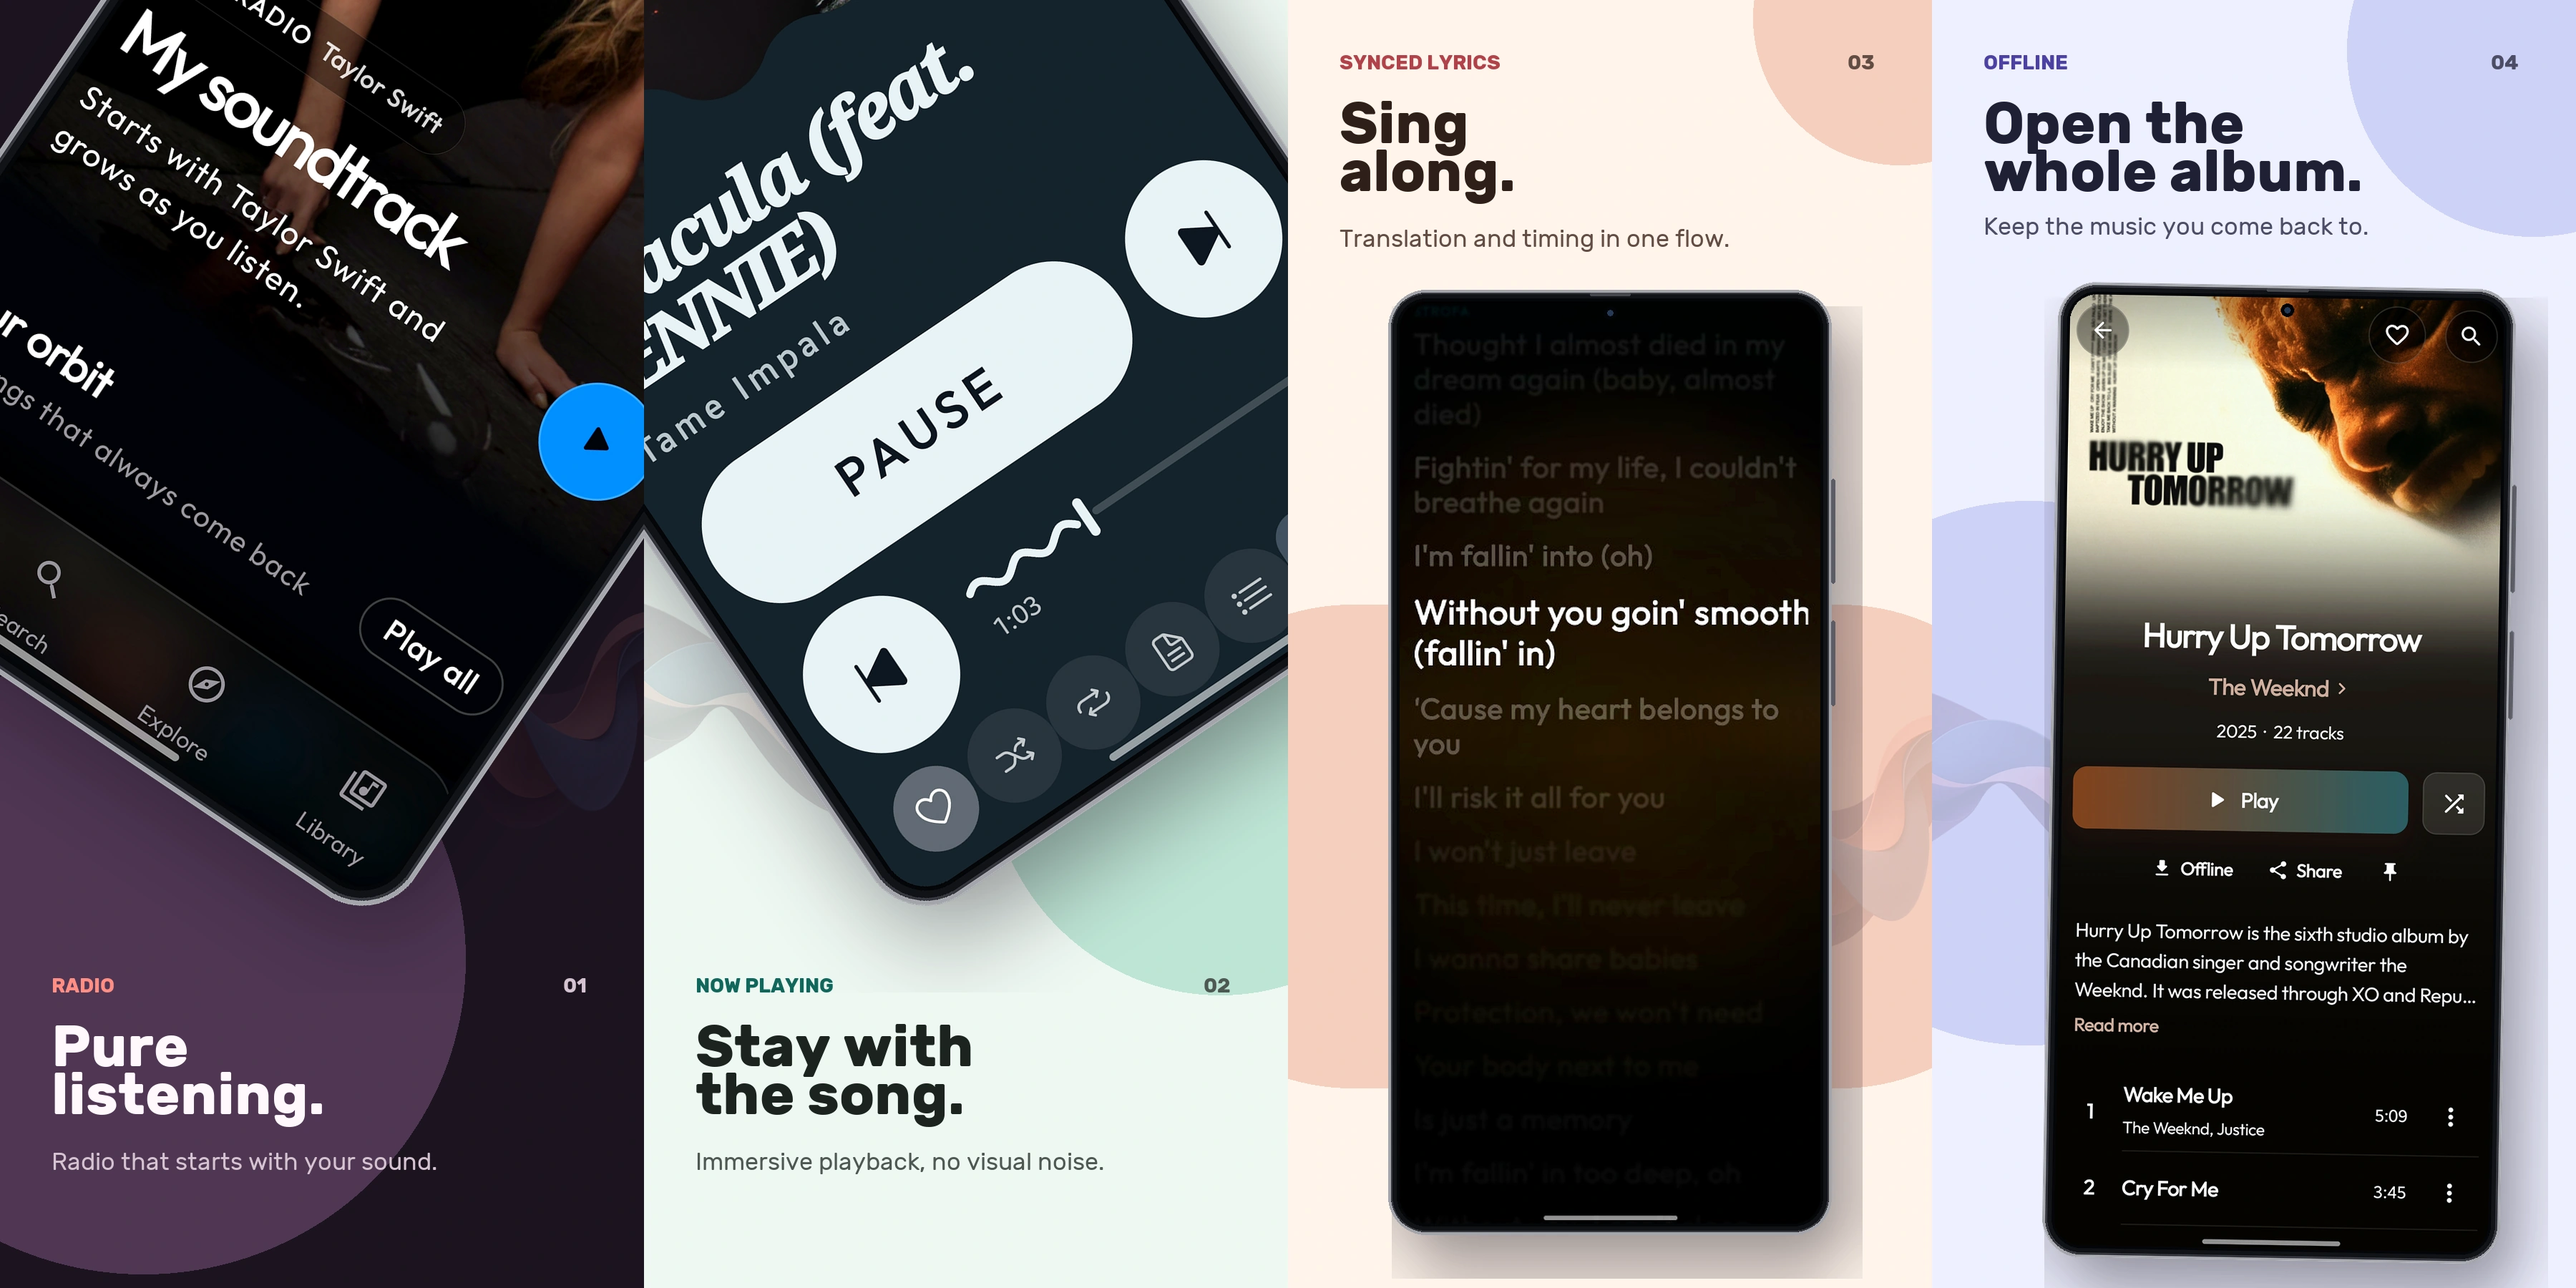
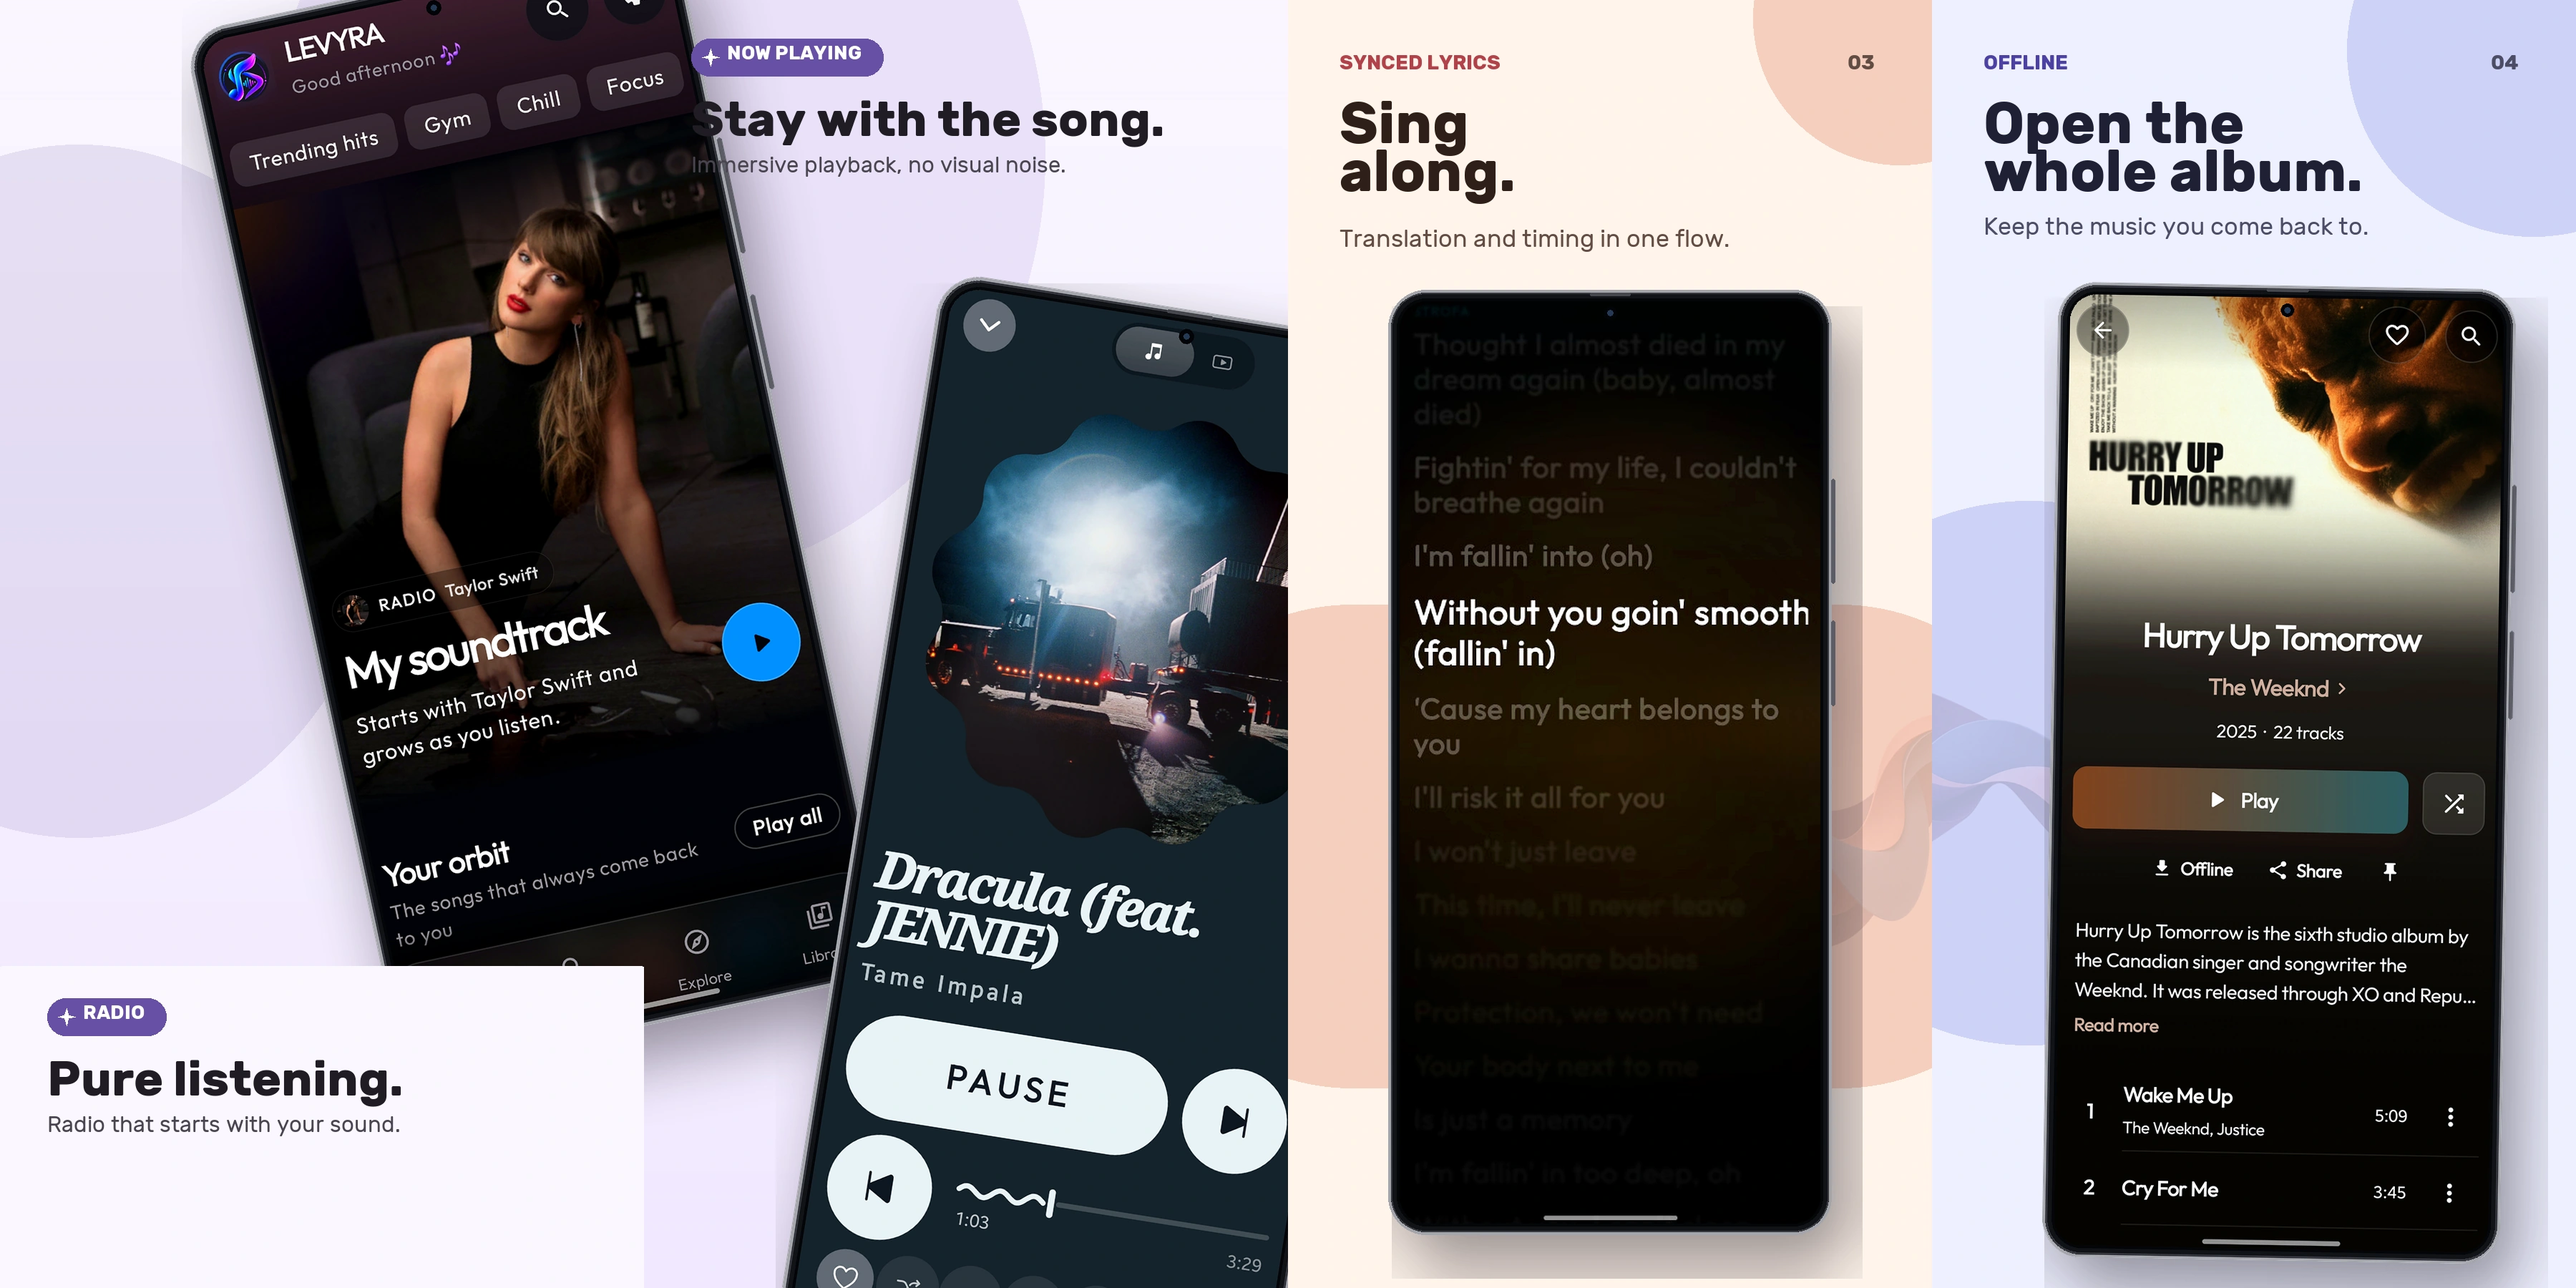
docs: restore orbit showcase crop

diff --git a/scripts/generate_showcase_assets.py b/scripts/generate_showcase_assets.py
@@ -697,7 +697,7 @@ def make_campaign_device(filename, width):
         )
     return device
 
-def paste_campaign_device(canvas, filename, width, center, angle=0):
+def paste_campaign_device(canvas, filename, width, center=None, angle=0, top_left=None):
     device = make_campaign_device(filename, width)
     if angle:
         device = device.rotate(angle, resample=Image.Resampling.BICUBIC, expand=True)
@@ -705,8 +705,11 @@ def paste_campaign_device(canvas, filename, width, center, angle=0):
     shadow_alpha = ImageEnhance.Brightness(shadow_alpha).enhance(0.42)
     shadow = Image.new("RGBA", device.size, (18, 12, 22, 0))
     shadow.putalpha(shadow_alpha)
-    x = round(center[0] - device.width / 2)
-    y = round(center[1] - device.height / 2)
+    if top_left is None:
+        x = round(center[0] - device.width / 2)
+        y = round(center[1] - device.height / 2)
+    else:
+        x, y = top_left
     canvas.alpha_composite(shadow, (x + 24, y + 42))
     canvas.alpha_composite(device, (x, y))
 
@@ -756,6 +759,61 @@ def draw_readme_card_shapes(draw, theme, variant):
         draw.ellipse((-240, 700, 510, 1460), fill=theme["shape"] + (255,))
         draw.ellipse((580, -190, 1100, 330), fill=theme["shape"] + (190,))
 
+def draw_orbit_readme_copy(card, spec, placement):
+    draw = ImageDraw.Draw(card)
+    _, kicker, title, body, _ = spec
+    scale = 1.125
+    surface = (250, 247, 255, 255)
+    primary = (103, 80, 164, 255)
+    on_surface = (32, 29, 36, 255)
+    on_surface_variant = (73, 69, 79, 255)
+    x = 66
+    y = round((48 if placement == "top" else 1240) * scale)
+    if placement == "bottom":
+        draw.rounded_rectangle(
+            (-70, round(1200 * scale), 970, 1800),
+            radius=82,
+            fill=surface,
+        )
+    label_font = get_font(27, bold=True)
+    label_box = draw.textbbox((0, 0), kicker, font=label_font)
+    label_width = label_box[2] - label_box[0]
+    draw.rounded_rectangle((x, y, x + label_width + 80, y + 52), radius=26, fill=primary)
+    draw_vector_sparkle(draw, x + 27, y + 26, 12, (255, 255, 255, 255))
+    draw.text((x + 50, y + 10 - label_box[1]), kicker, font=label_font, fill=(255, 255, 255, 255))
+    title_y = y + 72
+    title_font = fit_title_font(draw, title.replace("\n", " "), 768, initial_size=68, minimum_size=50)
+    draw.text((x, title_y), title.replace("\n", " "), font=title_font, fill=on_surface)
+    draw.text((x, title_y + 86), body, font=get_font(31), fill=on_surface_variant)
+
+def render_orbit_readme_pair(left_spec, right_spec):
+    card_w, card_h = 900, 1800
+    pair_w = card_w * 2
+    surface = np.array((250, 247, 255), dtype=np.float32)
+    container = np.array((234, 221, 255), dtype=np.float32)
+    pixels = np.zeros((card_h, pair_w, 4), dtype=np.uint8)
+    for y in range(card_h):
+        progress = y / float(card_h)
+        pixels[y, :, :3] = (surface * (1 - progress * 0.55) + container * (progress * 0.55)).astype(np.uint8)
+    pixels[:, :, 3] = 255
+    canvas = Image.fromarray(pixels, mode="RGBA")
+    shapes = Image.new("RGBA", canvas.size, (0, 0, 0, 0))
+    draw = ImageDraw.Draw(shapes)
+    scale = 1.125
+    draw.ellipse((380, round(-330 * scale), 1460, round(720 * scale)), fill=(232, 222, 248, 220))
+    draw.ellipse((-320, round(180 * scale), 540, round(1040 * scale)), fill=(103, 80, 164, 34))
+    draw.ellipse((1190, round(760 * scale), 2050, round(1620 * scale)), fill=(103, 80, 164, 30))
+    canvas = Image.alpha_composite(canvas, shapes)
+
+    paste_campaign_device(canvas, left_spec[4], 700, angle=12, top_left=(230, round(-110 * scale)))
+    paste_campaign_device(canvas, right_spec[4], 700, angle=-9, top_left=(card_w + 160, round(315 * scale)))
+
+    left = canvas.crop((0, 0, card_w, card_h))
+    right = canvas.crop((card_w, 0, pair_w, card_h))
+    draw_orbit_readme_copy(left, left_spec, "bottom")
+    draw_orbit_readme_copy(right, right_spec, "top")
+    return left.convert("RGB"), right.convert("RGB")
+
 def render_readme_card(spec, index):
     theme_order = [0, 1, 2, 3, 3, 0, 1, 2, 1, 2, 3, 0, 2, 3, 0, 1]
     variant_order = [0, 1, 2, 3, 2, 3, 0, 1, 1, 0, 3, 2, 3, 2, 1, 0]
@@ -770,11 +828,23 @@ def render_readme_card(spec, index):
 
     _, _, _, _, screenshot = spec
     if index == 0:
-        paste_campaign_device(canvas, screenshot, 1050, (720, 80), -34)
+        paste_campaign_device(
+            canvas,
+            screenshot,
+            760,
+            angle=12,
+            top_left=(230, -110),
+        )
         draw_readme_card_copy(draw, spec, theme, index, (72, 1360))
     elif index == 1:
-        paste_campaign_device(canvas, screenshot, 1050, (180, 80), 34)
-        draw_readme_card_copy(draw, spec, theme, index, (72, 1360))
+        paste_campaign_device(
+            canvas,
+            screenshot,
+            760,
+            angle=-9,
+            top_left=(160, 315),
+        )
+        draw_readme_card_copy(draw, spec, theme, index, (72, 70))
     else:
         draw_readme_card_copy(draw, spec, theme, index, (72, 70))
         placements = [
@@ -801,6 +871,16 @@ def generate_readme_cards():
     os.makedirs(README_CARD_DIR, exist_ok=True)
     cards = []
     for index, spec in enumerate(README_CARD_SPECS):
+        if index == 0:
+            left_card, right_card = render_orbit_readme_pair(spec, README_CARD_SPECS[1])
+            for artwork, artwork_spec in ((left_card, spec), (right_card, README_CARD_SPECS[1])):
+                cards.append(artwork)
+                out_path = os.path.join(README_CARD_DIR, artwork_spec[0] + ".webp")
+                artwork.save(out_path, "WEBP", quality=94, method=6)
+                print(f"Saved README editorial card at {artwork.size}: {out_path}")
+            continue
+        if index == 1:
+            continue
         artwork = render_readme_card(spec, index)
         cards.append(artwork)
         out_path = os.path.join(README_CARD_DIR, spec[0] + ".webp")

diff --git a/README.md b/README.md
@@ -125,10 +125,10 @@ Enhanced Audio is on by default and can be turned off in Audio Settings. Technic
 </p>
 
 <div align="center">
-<div><img src="docs/assets/showcase/editorial-cards/editorial-grid-row-01.webp?v=editorial-player-cut-v5" width="900" align="top" alt="Levyra showcase: radio, now playing, lyrics, and offline albums" /></div>
-<div><img src="docs/assets/showcase/editorial-cards/editorial-grid-row-02.webp?v=editorial-player-cut-v5" width="900" align="top" alt="Levyra showcase: discovery, mixes, moods, and audio controls" /></div>
-<div><img src="docs/assets/showcase/editorial-cards/editorial-grid-row-03.webp?v=editorial-player-cut-v5" width="900" align="top" alt="Levyra showcase: library, collections, insights, and home" /></div>
-<div><img src="docs/assets/showcase/editorial-cards/editorial-grid-row-04.webp?v=editorial-player-cut-v5" width="900" align="top" alt="Levyra showcase: settings, new releases, artists, and Jam" /></div>
+<div><img src="docs/assets/showcase/editorial-cards/editorial-grid-row-01.webp?v=editorial-orbit-reference-v8" width="900" align="top" alt="Levyra showcase: radio, now playing, lyrics, and offline albums" /></div>
+<div><img src="docs/assets/showcase/editorial-cards/editorial-grid-row-02.webp?v=editorial-orbit-reference-v8" width="900" align="top" alt="Levyra showcase: discovery, mixes, moods, and audio controls" /></div>
+<div><img src="docs/assets/showcase/editorial-cards/editorial-grid-row-03.webp?v=editorial-orbit-reference-v8" width="900" align="top" alt="Levyra showcase: library, collections, insights, and home" /></div>
+<div><img src="docs/assets/showcase/editorial-cards/editorial-grid-row-04.webp?v=editorial-orbit-reference-v8" width="900" align="top" alt="Levyra showcase: settings, new releases, artists, and Jam" /></div>
 </div>
 
 </div>
